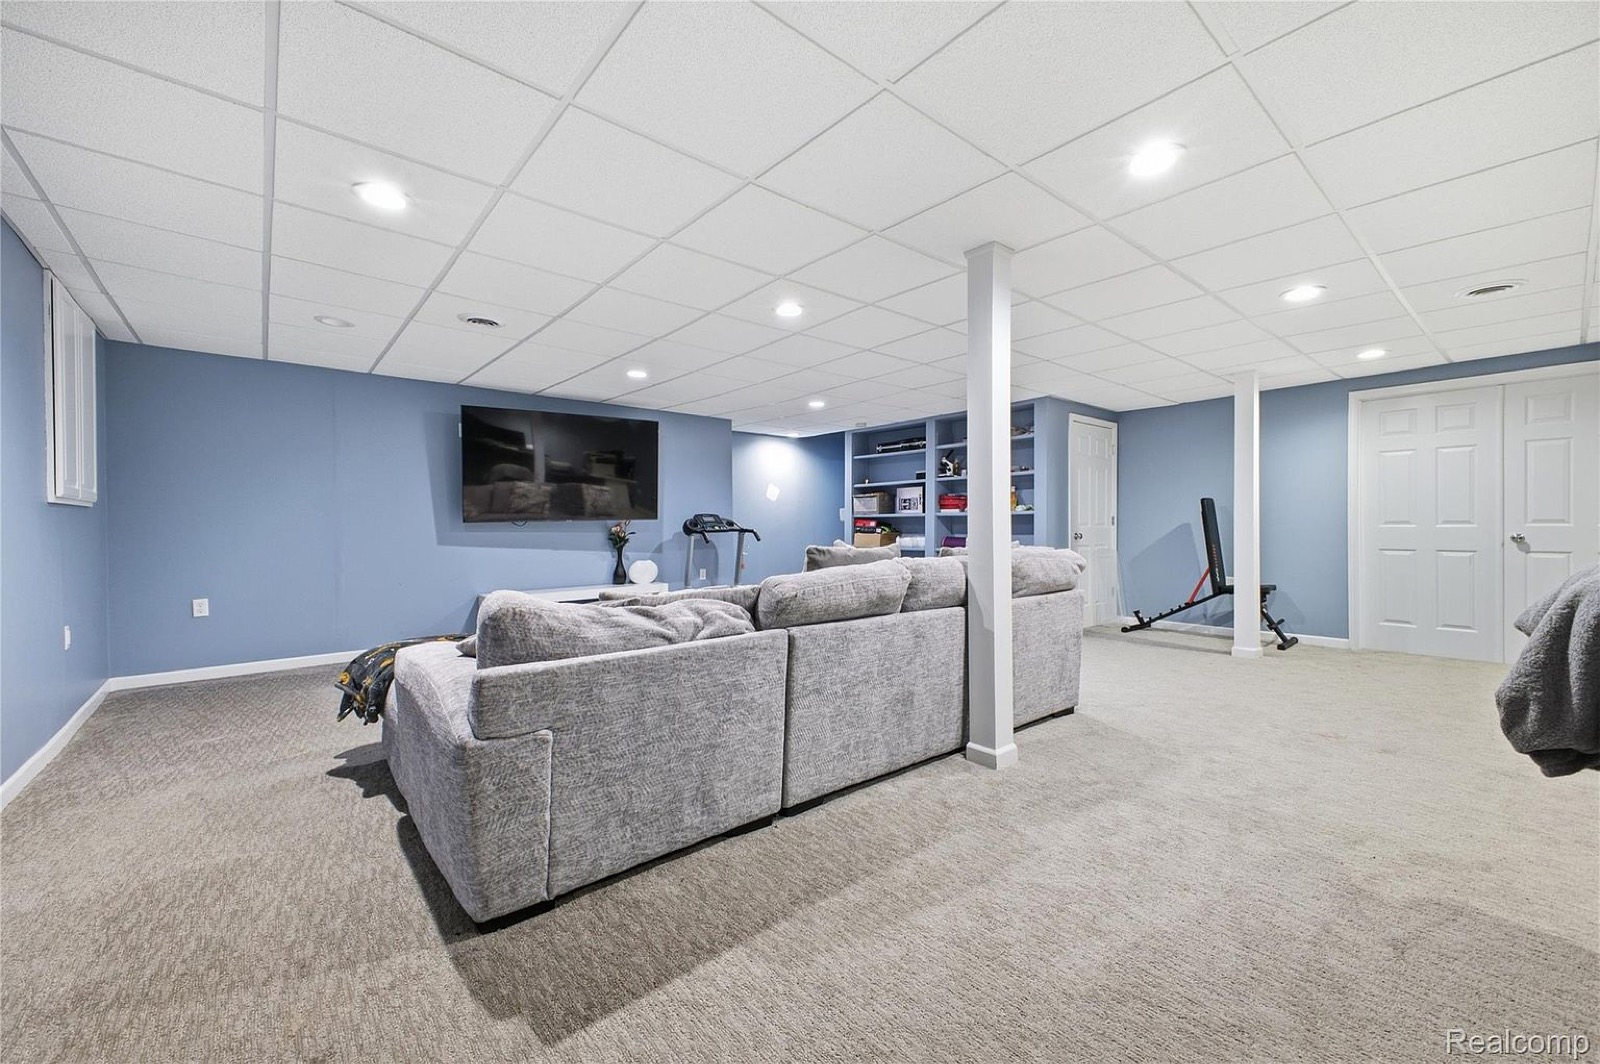
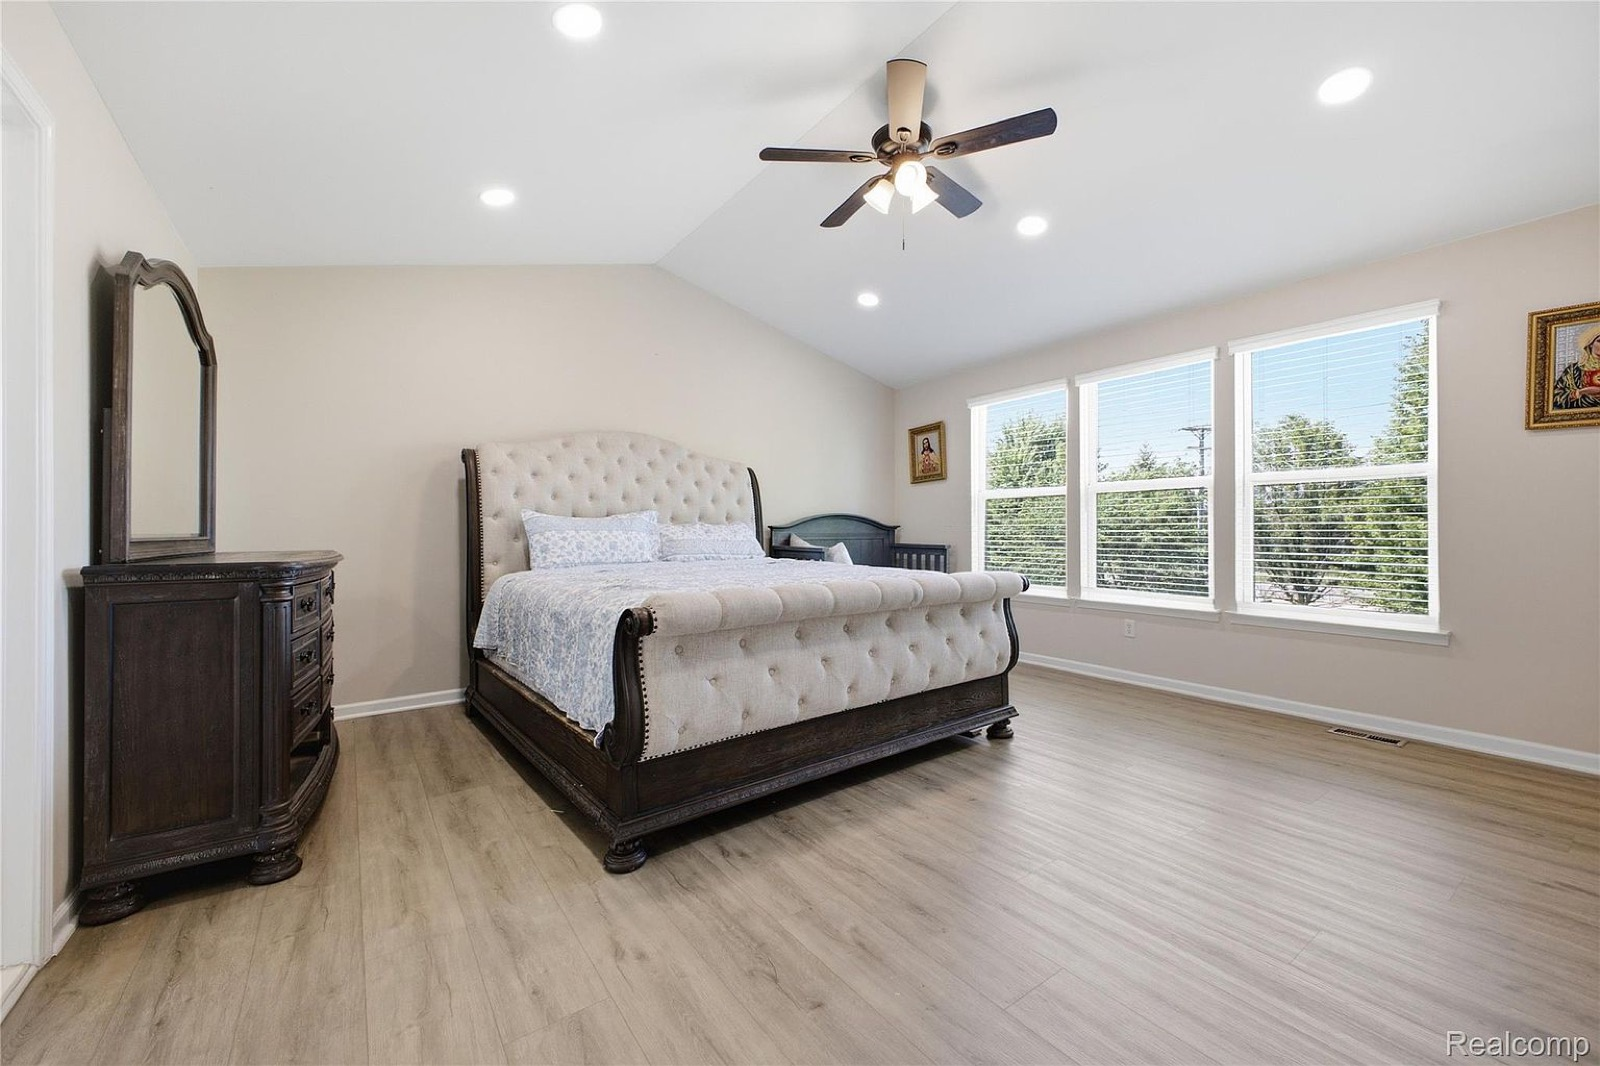
Slideshow: no side bars, swap last two photos
- Frame is 16:9 with object-fit cover (matches the exterior exactly,
  no letterbox bars; interiors crop a hair top/bottom)
- Replaced bedroom+basement with photo 16 (double-vanity bathroom)
  and photo 11 (primary bedroom) from the Realcomp set

diff --git a/src/app/globals.css b/src/app/globals.css
@@ -1340,12 +1340,12 @@ body {
 /* Listing slideshow (detail page) — full photos, no cropping */
 .site-theme .lc { margin-top: 44px; }
 .site-theme .lc-stage {
-  position: relative; width: 100%; aspect-ratio: 16 / 10;
-  background: #10131a; border-radius: 22px; overflow: hidden;
+  position: relative; width: 100%; aspect-ratio: 16 / 9;
+  background: var(--cream-2); border-radius: 22px; overflow: hidden;
   display: flex; align-items: center; justify-content: center;
   box-shadow: 0 16px 44px rgba(25,26,28,0.16);
 }
-.site-theme .lc-stage img { width: 100%; height: 100%; object-fit: contain; display: block; }
+.site-theme .lc-stage img { width: 100%; height: 100%; object-fit: cover; display: block; }
 .site-theme .lc-nav {
   position: absolute; top: 50%; transform: translateY(-50%);
   width: 46px; height: 46px; border-radius: 50%;
@@ -1375,7 +1375,6 @@ body {
 .site-theme .lc-thumbs button:hover { opacity: 0.85; }
 .site-theme .lc-thumbs button.on { opacity: 1; outline-color: var(--s-gold); }
 @media (max-width: 720px) {
-  .site-theme .lc-stage { aspect-ratio: 4 / 3; }
   .site-theme .lc-nav { width: 40px; height: 40px; font-size: 22px; }
   .site-theme .lc-thumbs button { width: 78px; height: 56px; }
 }

diff --git a/src/app/listing/56291-hastings/page.tsx b/src/app/listing/56291-hastings/page.tsx
@@ -47,8 +47,8 @@ const PHOTOS = [
   { src: "/listing/hastings/2.jpg", alt: "Updated kitchen with granite counters and stainless appliances" },
   { src: "/listing/hastings/3.jpg", alt: "Open living room with fireplace" },
   { src: "/listing/hastings/4.jpg", alt: "Dining area with doorwall to the backyard patio" },
-  { src: "/listing/hastings/5.jpg", alt: "Spacious bedroom with natural light" },
-  { src: "/listing/hastings/6.jpg", alt: "Finished basement with rec and gym space" },
+  { src: "/listing/hastings/5.jpg", alt: "Full bathroom with double vanity and marble counters" },
+  { src: "/listing/hastings/6.jpg", alt: "Primary bedroom with vaulted ceiling and large windows" },
 ];
 
 const inquiryMail = `mailto:${company.email}?subject=${encodeURIComponent(
